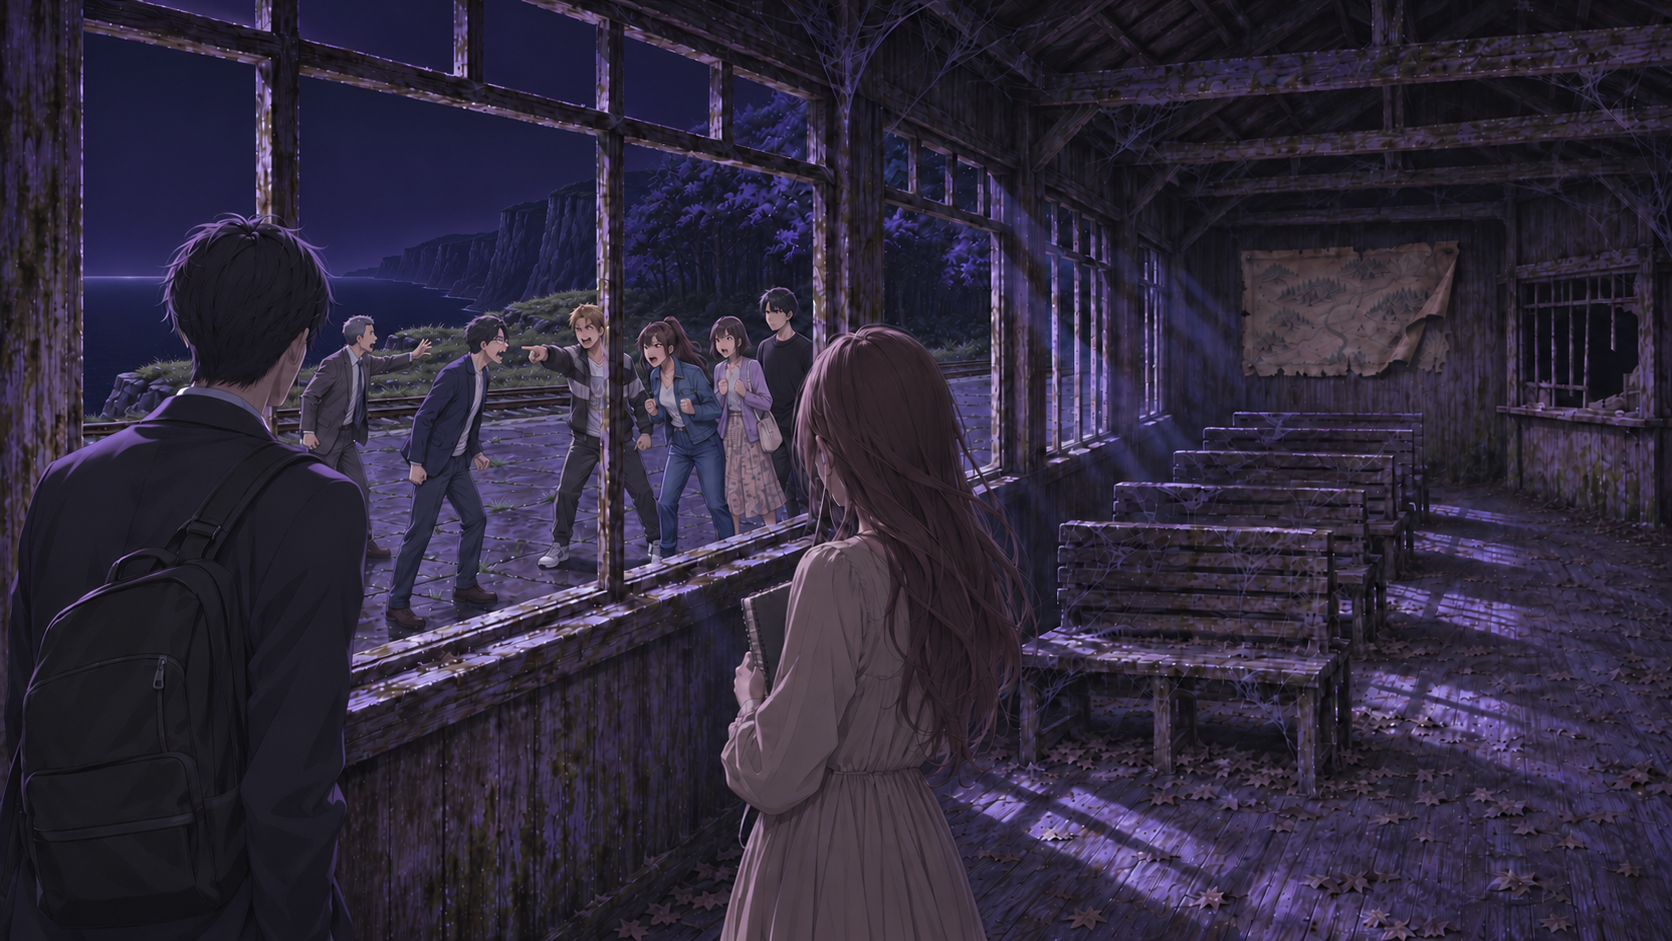
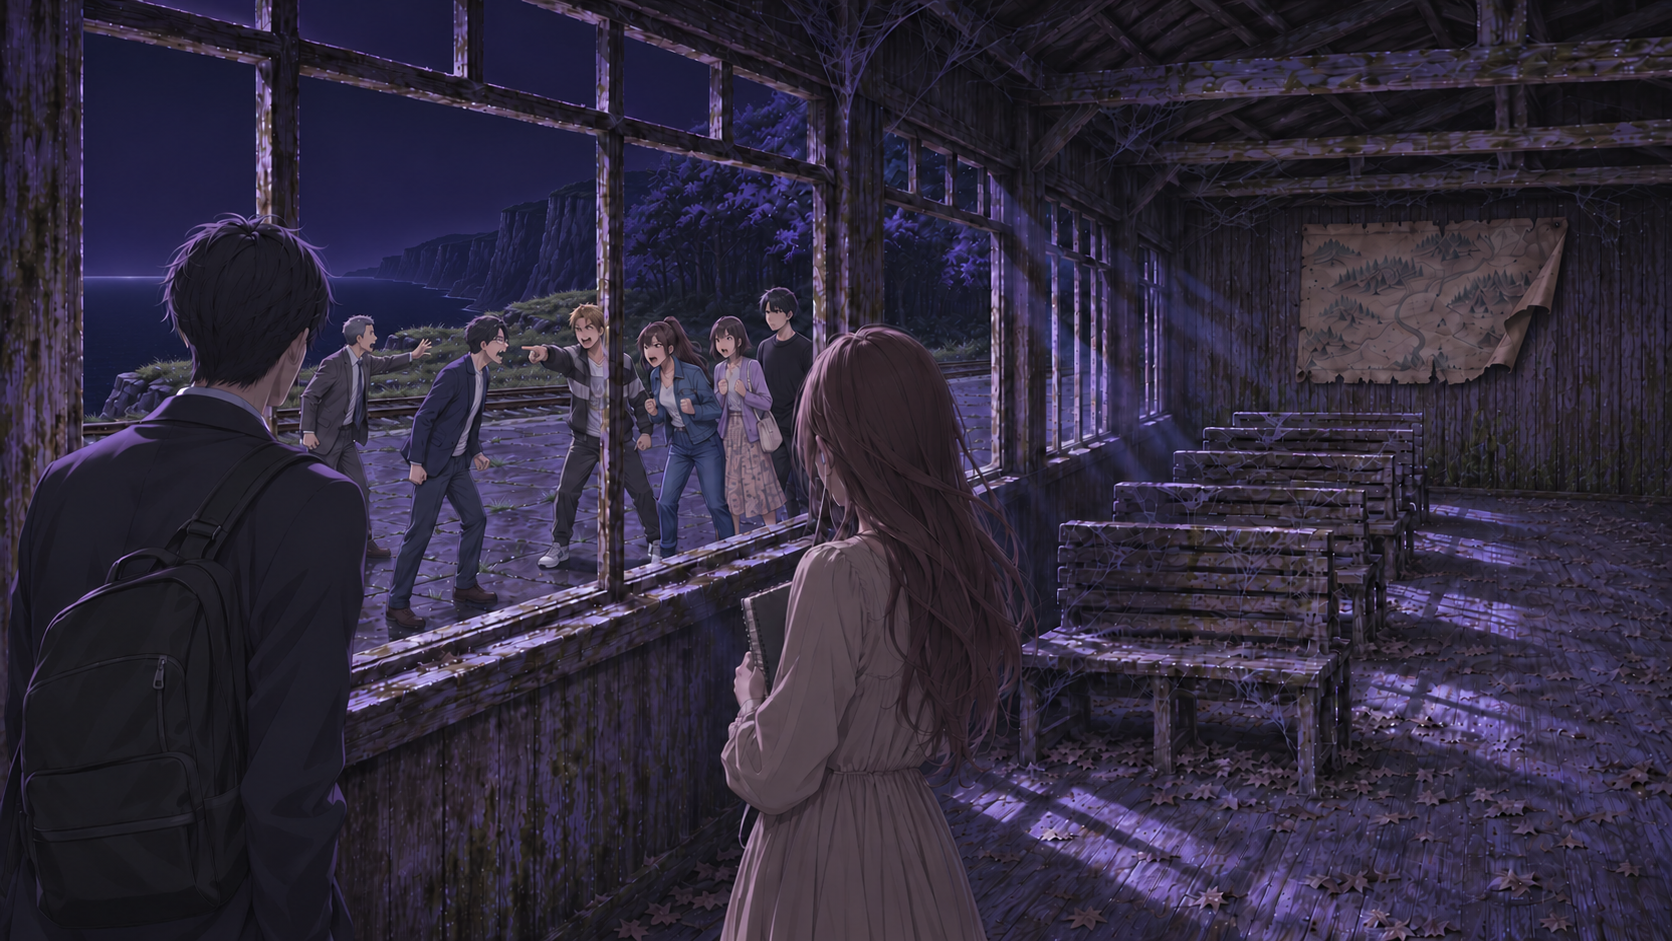
Widen the end wall in b1a_act6_through_window
Stretch the far end wall sideways so it reads as wide as in the
reference, keep the map's proportions (scaled up evenly), and drop the
barred ticket window from this shot. Only the end wall was replaced; the
people and the window wall are untouched. Update its prompt to match.

Changed region(s): [[0.7153, 0.0, 1.0, 0.5547]]

diff --git a/packages/stories/raw/trainAdventure/branch_1a/act6.md b/packages/stories/raw/trainAdventure/branch_1a/act6.md
@@ -85,7 +85,7 @@ the waiting room inside the abandoned wooden station house of Jishui: a long sin
 **慷慨大叔**：(臉色一沉)不行，我得出去看看！這群年輕人太衝動了，萬一真鬧出事來就糟了！
 
 ```bg through_window
-the waiting room inside the abandoned wooden station house of Jishui: a long single-storey room under a high open roof with a dusty plank floor strewn with dead leaves; dark weathered plank walls with cracks and mould stains; exposed old roof beams heavy with cobwebs; rows of old wooden slatted benches draped with spider webs, all facing the same way; along the front wall, window openings in old wooden frames with no glass look out onto the cracked stone platform, the empty railway track just beyond it, then the grassy, rocky edge of a high sea cliff and the flat black sea far below it, with the sheer dark face of the cliff under the forest to one side and open sea to the horizon on the other, and no moon inside the openings; on the far end wall a large yellowed parchment map, torn at the edges and half peeling off the planks, held by rusty nails, with only faint ink lines of paths and a forest and no readable writing; a broken ticket window with wooden bars in one corner; cold violet moonlight falls in through the window openings in pale shafts; no lamps and no electric light inside. Camera: inside the dark waiting room at standing eye level, behind Li Jie and Emi, who stand at one of the glassless window openings in the front wall, looking out. Li Jie (28-year-old man, short black hair, dark suit jacket, black backpack) on the left of the opening and Emi (young woman, long chestnut hair, beige cotton dress, white wired earphones, plain white canvas sneakers) on the right, both seen from behind in three-quarter, dark shapes against the moonlit opening, Emi holding her sketchbook. Through the window opening, framed by its old wooden mullions: the cracked grey-white stone platform under cold violet moonlight, the empty track, the grassy cliff edge just past it, the black sea far below and, to one side, the dark cliff face under the forest, no moon visible. Out on the platform a loud argument, everyone facing each other, nobody walking away yet, from left to right: Yamamoto (late-40s man, short grey-streaked hair, no glasses, grey suit, navy striped tie, no bag, since he left it in the waiting room) steps in with one arm stretched out, trying to calm them; Saito Ren (rimless glasses, navy blazer over a white tee) leans forward shouting at the students; Kenta (light-brown hair, black-and-grey track jacket) jabs a finger at Saito, shouting back; Asuka (brown ponytail, denim jacket, blue jeans) shouts with both fists clenched; Misaki (dark bob, lavender cardigan, floral skirt, cream shoulder bag) cringes beside her; Takumi (black knit sweater) stands behind them, grim. The people outside are small. Only the people named here are in view. Muted cold palette, moody cinematic visual-novel background art, 16:9, no text, no logo
+the waiting room inside the abandoned wooden station house of Jishui: a long single-storey room under a high open roof with a dusty plank floor strewn with dead leaves; dark weathered plank walls with cracks and mould stains; exposed old roof beams heavy with cobwebs; rows of old wooden slatted benches draped with spider webs, all facing the same way; along the front wall, window openings in old wooden frames with no glass look out onto the cracked stone platform, the empty railway track just beyond it, then the grassy, rocky edge of a high sea cliff and the flat black sea far below it, with the sheer dark face of the cliff under the forest to one side and open sea to the horizon on the other, and no moon inside the openings; on the far end wall a large yellowed parchment map, torn at the edges and half peeling off the planks, held by rusty nails, with only faint ink lines of paths and a forest and no readable writing; the far end wall is wide and plain apart from the map, and the broken ticket window in its corner is out of frame; cold violet moonlight falls in through the window openings in pale shafts; no lamps and no electric light inside. Camera: inside the dark waiting room at standing eye level, behind Li Jie and Emi, who stand at one of the glassless window openings in the front wall, looking out. Li Jie (28-year-old man, short black hair, dark suit jacket, black backpack) on the left of the opening and Emi (young woman, long chestnut hair, beige cotton dress, white wired earphones, plain white canvas sneakers) on the right, both seen from behind in three-quarter, dark shapes against the moonlit opening, Emi holding her sketchbook. Through the window opening, framed by its old wooden mullions: the cracked grey-white stone platform under cold violet moonlight, the empty track, the grassy cliff edge just past it, the black sea far below and, to one side, the dark cliff face under the forest, no moon visible. Out on the platform a loud argument, everyone facing each other, nobody walking away yet, from left to right: Yamamoto (late-40s man, short grey-streaked hair, no glasses, grey suit, navy striped tie, no bag, since he left it in the waiting room) steps in with one arm stretched out, trying to calm them; Saito Ren (rimless glasses, navy blazer over a white tee) leans forward shouting at the students; Kenta (light-brown hair, black-and-grey track jacket) jabs a finger at Saito, shouting back; Asuka (brown ponytail, denim jacket, blue jeans) shouts with both fists clenched; Misaki (dark bob, lavender cardigan, floral skirt, cream shoulder bag) cringes beside her; Takumi (black knit sweater) stands behind them, grim. The people outside are small. Only the people named here are in view. Muted cold palette, moody cinematic visual-novel background art, 16:9, no text, no logo
 ```
 
 **旁白**：慷慨大叔快步走出候車室。李杰和恵美留在原地，透過破舊的窗戶看著外面的情況，只能聽到激烈的對話。
